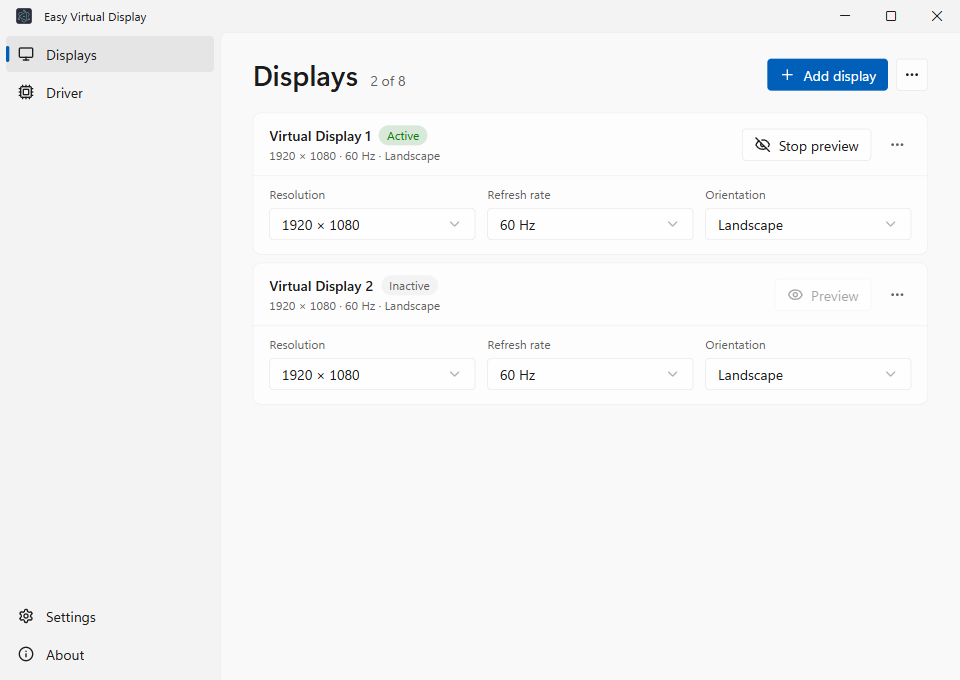
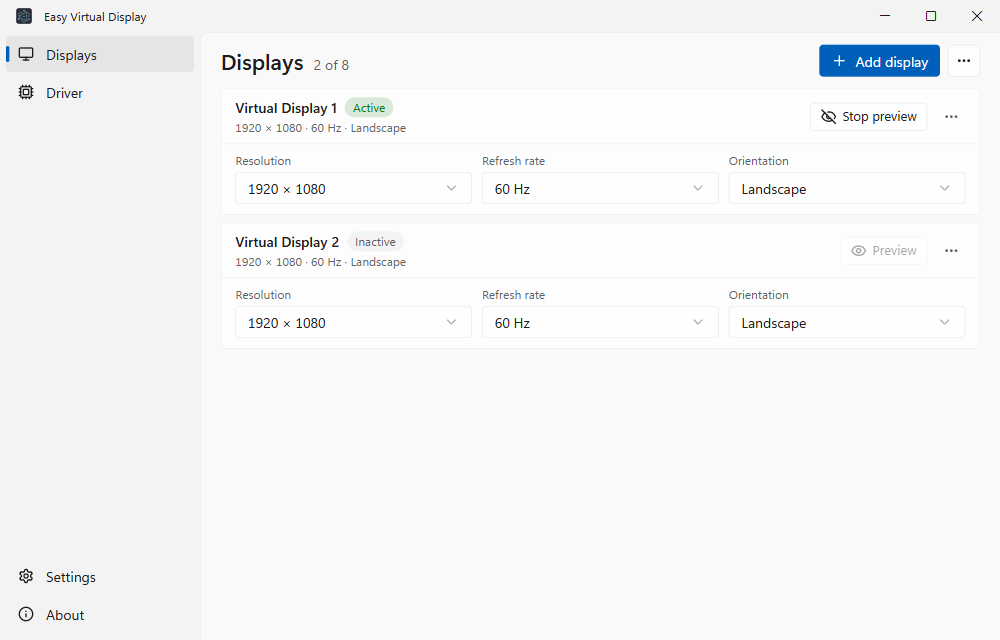
docs: update README and localization files with new features and UI enhancements
- Revised GPU targeting description to specify "render GPU" instead of "parent GPU".
- Enhanced the "At-a-glance status" section for clarity on driver information.
- Added a new feature for "In-window preview" of virtual displays.
- Updated UX description to reflect a Windows 11-style interface.
- Made corresponding updates to the Chinese localization files.

These changes improve documentation accuracy and provide users with clearer insights into application features.

diff --git a/README.md b/README.md
@@ -16,11 +16,12 @@ It builds on the early concept of [nomi-san/parsec-vdd](https://github.com/nomi-
 - **Add & remove displays anywhere** — from the main window or the system tray, up to 8 virtual displays.
 - **Per-display control** — set resolution, refresh rate, and orientation (landscape / portrait / flipped) for each virtual monitor.
 - **Custom resolution modes** — define up to 5 custom modes the driver should advertise.
-- **GPU targeting** — pin virtual displays to a specific parent GPU (Auto / NVIDIA / AMD).
-- **At-a-glance status** — driver state, driver version, max displays, and active display count.
+- **GPU targeting** — pin virtual displays to a specific render GPU (Auto / NVIDIA / AMD).
+- **At-a-glance status** — driver state, version, display limit, and active count on a dedicated Driver page.
+- **In-window preview** — mirror a virtual display into a local window from the Displays page.
 - **Smart behaviors** — launch on login, close-to-tray, start in tray, *keep screen on* while a display is active, and a *fallback display* that auto-appears when no display is active.
 - **Command line** — `evdctl` adds and removes displays from scripts, e.g. as Sunshine prep commands.
-- **Polished UX** — light / dark / system themes and an English / 简体中文 interface.
+- **Polished UX** — Windows 11–style shell with left navigation, light / dark / system themes, and English / 简体中文.
 
 ## Screenshots
 
